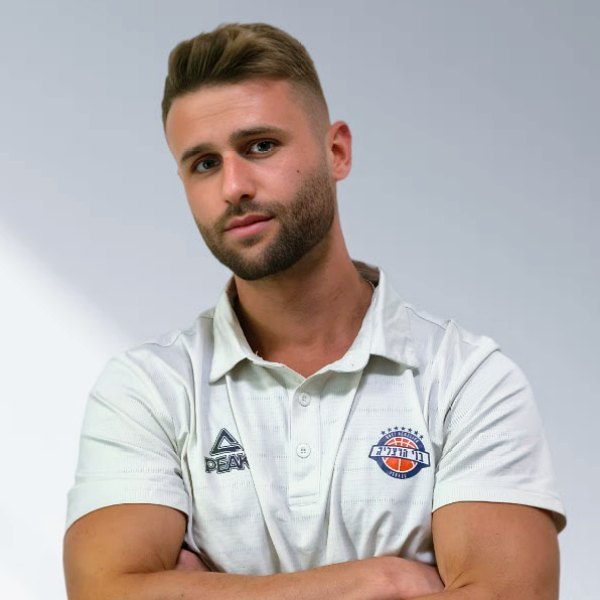
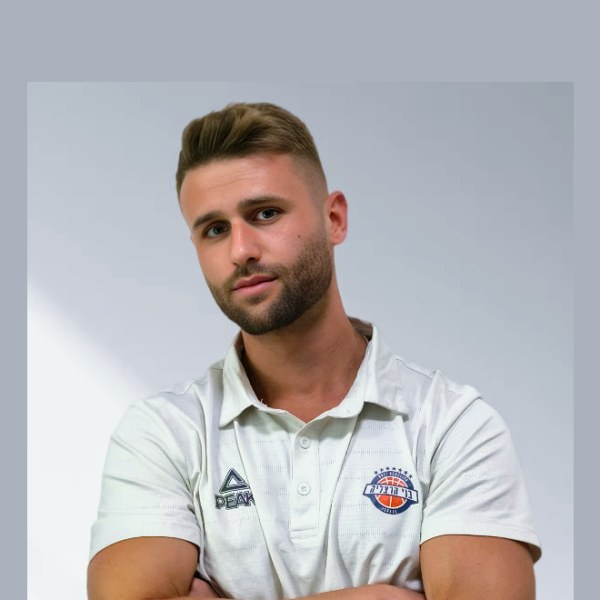
fix(gym): align founder photos (eye-line + head size) + balance bio lengths
- Re-cropped both founder photos to a shared eye-line (~37% from top) and
  matched head size, so the pair looks level side by side. Ohad's studio
  shot gets a seamless grey headroom pad (studio bg is grey) to lower his
  eye-line to match Yuval's.
- Balanced the two bios to a matched medium length: lengthened Ohad's with
  a real credential (Bnei Herzliya basketball fitness coach), trimmed
  Yuval's. Both now ~4 lines.

diff --git a/expo-il/src/Gym.jsx b/expo-il/src/Gym.jsx
@@ -546,12 +546,12 @@ function WhyNotJust({ heb }) {
 function Team({ heb }) {
   const people = heb
     ? [
-        { initials: 'א', name: 'אוהד', role: 'אימון · כוח ואתלטיקה', bio: 'בונה את התוכניות, מנהל את רצפת האימון, ומאמן כל קבוצה בעצמו. כל סט נכתב מראש ומתעדכן לפי המספרים שלך.' },
-        { initials: 'י', name: 'יובל ברקוביץ׳', role: 'ריקאברי · עיסוי ספורט ורפואי', bio: 'מטפל בעיסוי ספורט ורפואי, מוסמך מכון וינגייט, עם התמחות בשחרור ובפתיחת טווחי תנועה. אחראי על כל הריקאברי במרכז — העיסוי החודשי, העבודה הקצרה לפני ואחרי אימון, וניהול העומסים שמחזיק אותך מתאמן ברצף.' },
+        { initials: 'א', name: 'אוהד', role: 'אימון · כוח ואתלטיקה', bio: 'מאמן כוח ואתלטיקה, ובין השאר מאמן הכושר של קבוצת בני הרצליה בכדורסל. בונה את התוכניות, מנהל את רצפת האימון, ומאמן כל קבוצה בעצמו — כל סט נכתב מראש ומתעדכן לפי המספרים שלך.' },
+        { initials: 'י', name: 'יובל ברקוביץ׳', role: 'ריקאברי · עיסוי ספורט ורפואי', bio: 'מטפל בעיסוי ספורט ורפואי, מוסמך מכון וינגייט, עם התמחות בשחרור ובפתיחת טווחי תנועה. אחראי על כל הריקאברי במרכז — העיסוי החודשי, העבודה לפני ואחרי אימון, וניהול העומסים.' },
       ]
     : [
-        { initials: 'O', name: 'Ohad', role: 'Coaching · strength & athletics', bio: 'Builds the programs, runs the training floor, and coaches every group himself. Every set is written ahead and adjusts to your numbers.' },
-        { initials: 'Y', name: 'Yuval Berkovitch', role: 'Recovery · sports & medical massage', bio: 'A Wingate-certified sports- and medical-massage therapist who specializes in release and opening range of motion. He owns all recovery at the center — the monthly massage, short pre/post-training work, and the load management that keeps you training consistently.' },
+        { initials: 'O', name: 'Ohad', role: 'Coaching · strength & athletics', bio: 'A strength and athletics coach — and the fitness coach for Bnei Herzliya basketball. He builds the programs, runs the floor, and coaches every group himself; every set is written ahead and adjusts to your numbers.' },
+        { initials: 'Y', name: 'Yuval Berkovitch', role: 'Recovery · sports & medical massage', bio: 'A Wingate-certified sports- and medical-massage therapist specializing in release and range-of-motion work. He owns all recovery at the center — the monthly massage, pre/post-training work, and load management.' },
       ];
   return (
     <section data-fade className="gym-section">
